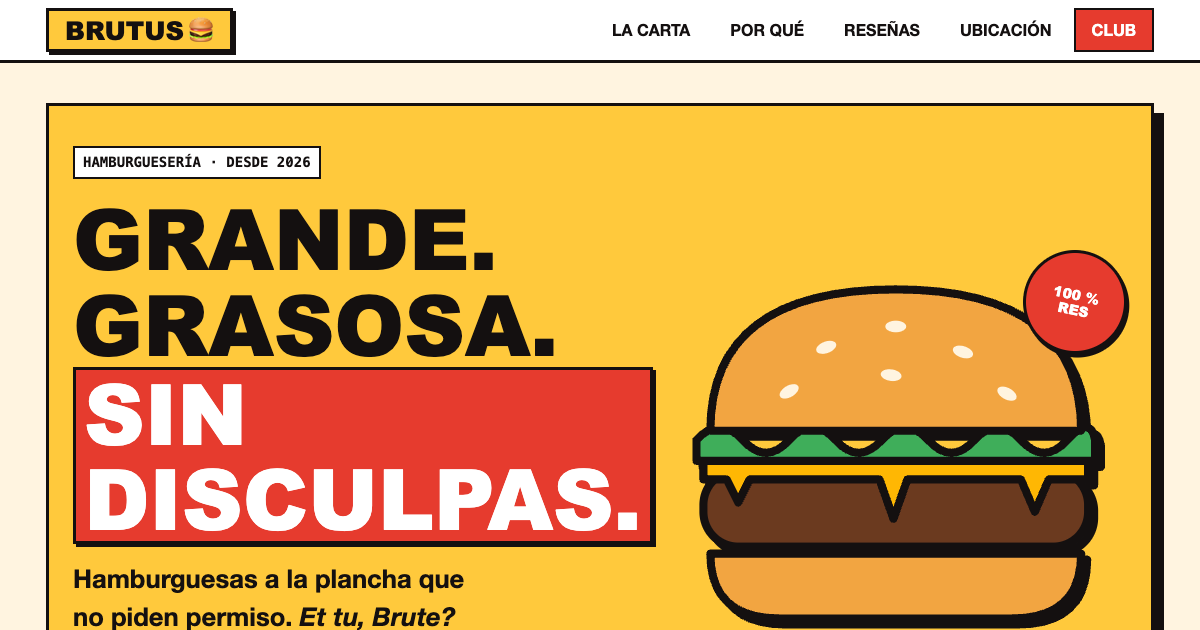
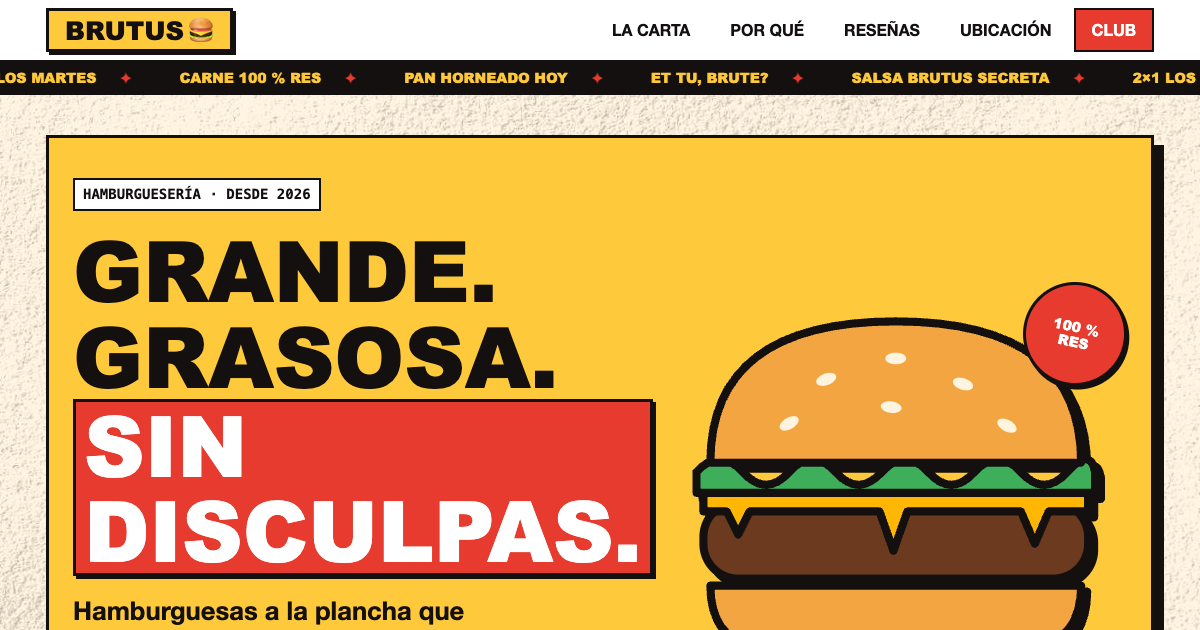
feat: animated UI details, Roman engravings and paper texture
- Ticker bar, button glare + icon wiggle, menu cards that lift/press, animated consent checkbox (adapted from Uiverse.io by 0xnihilism, MIT)
- 'La leyenda' section with John Leech engravings from The Comic History of Rome (public domain, via PDIA)
- Paper grain background derived from a Texture Labs texture; system fonts only
- Re-scroll to #anchor after content loads

diff --git a/css/styles.css b/css/styles.css
@@ -10,7 +10,8 @@ body {
   font-size: var(--fs-md);
   line-height: 1.5;
   color: var(--ink);
-  background: var(--cream);
+  /* Grano de papel: derivado de una textura de Texture Labs (ver README). */
+  background: var(--cream) url("../assets/paper-grain.jpg") center / cover fixed;
 }
 h1, h2, h3 { font-family: var(--font-display); line-height: 1.02; font-weight: var(--fw-black); margin: 0 0 var(--space-3); text-transform: uppercase; }
 h1 { font-size: var(--fs-hero); }
@@ -33,9 +34,18 @@ a { color: inherit; }
   min-height: var(--touch); min-width: var(--touch); padding: 0 var(--space-4);
   font: inherit; font-weight: var(--fw-black); text-transform: uppercase; text-decoration: none;
   color: var(--ink); background: var(--mustard);
+  gap: var(--space-2);
   border: var(--border); box-shadow: var(--shadow); cursor: pointer;
+  position: relative; overflow: hidden; isolation: isolate;
   transition: transform var(--speed), box-shadow var(--speed);
 }
+/* Brillo y giro del icono: adaptados de Uiverse.io (0xnihilism, licencia MIT). */
+.btn::before { content: ""; position: absolute; inset: 0; z-index: -1; translate: -110% 0; background: linear-gradient(100deg, transparent 20%, var(--glare) 50%, transparent 80%); }
+.btn:hover::before { animation: glare var(--glare-speed) var(--ease-out) infinite; }
+@keyframes glare { to { translate: 110% 0; } }
+.btn-icon { display: inline-block; transition: transform var(--speed-slow) var(--ease-bounce); }
+.btn:hover .btn-icon { transform: rotate(var(--icon-wiggle)) scale(var(--icon-scale)); }
+.btn:active .btn-icon { transform: rotate(calc(-1 * var(--icon-wiggle))) scale(1); }
 .btn:hover { transform: translate(calc(-1 * var(--lift)), calc(-1 * var(--lift))); box-shadow: calc(var(--offset) + var(--lift)) calc(var(--offset) + var(--lift)) 0 var(--ink); }
 .btn:active { transform: translate(var(--offset), var(--offset)); box-shadow: 0 0 0 var(--ink); }
 .btn:disabled { background: var(--muted); color: var(--white); cursor: not-allowed; }
@@ -96,9 +106,16 @@ a { color: inherit; }
 .chip-btn { min-height: var(--touch); padding: 0 var(--space-3); font: inherit; font-weight: var(--fw-bold); text-transform: uppercase; color: var(--ink); background: var(--white); border: var(--border); box-shadow: var(--shadow-sm); cursor: pointer; transition: transform var(--speed), box-shadow var(--speed); }
 .chip-btn:hover { transform: translate(calc(-1 * var(--lift)), calc(-1 * var(--lift))); }
 .chip-btn[aria-pressed="true"] { background: var(--ink); color: var(--white); }
+.chip-btn { display: inline-flex; align-items: center; gap: var(--space-2); }
+.chip-icon { display: inline-block; transition: transform var(--speed-slow) var(--ease-bounce); }
+.chip-btn:hover .chip-icon, .chip-btn[aria-pressed="true"] .chip-icon { transform: rotate(var(--icon-wiggle)) scale(var(--icon-scale)); }
 
 /* Carta */
-.menu-item { position: relative; }
+.menu-item { position: relative; transition: transform var(--speed), box-shadow var(--speed); }
+/* Elevar al hover / hundir al pulsar: adaptado de Uiverse.io (0xnihilism, MIT). */
+.menu-item:hover { transform: translate(calc(-1 * var(--lift)), calc(-1 * var(--lift))); box-shadow: calc(var(--offset) + var(--lift)) calc(var(--offset) + var(--lift)) 0 var(--ink); }
+.menu-item:active { transform: translate(var(--press), var(--press)); box-shadow: 0 0 0 var(--ink); }
+.menu-item.is-favorite:hover { box-shadow: var(--shadow-lg); }
 .menu-item.is-favorite { background: var(--mustard); box-shadow: var(--shadow-lg); }
 .menu-head { display: flex; flex-direction: column; align-items: flex-start; gap: var(--space-2); margin-bottom: var(--space-3); }
 .menu-head h3 { margin: 0; overflow-wrap: break-word; hyphens: auto; }
@@ -156,8 +173,16 @@ a { color: inherit; }
 .cta-form input[type="email"] { min-height: var(--touch); padding: 0 var(--space-3); font: inherit; color: var(--ink); background: var(--white); border: var(--border); }
 .cta-form input[aria-invalid="true"] { border-color: var(--ketchup); background: var(--danger-bg); }
 .consent { display: flex; align-items: flex-start; gap: var(--space-2); text-transform: none !important; font-weight: var(--fw-bold) !important; font-size: var(--fs-md) !important; cursor: pointer; }
-.consent input { flex: none; width: var(--check); height: var(--check); margin: 0; accent-color: var(--ketchup); }
-.consent input[aria-invalid="true"] { outline: var(--bw) solid var(--ketchup); outline-offset: var(--focus-offset); }
+.consent { position: relative; }
+.consent input { position: absolute; width: var(--check); height: var(--check); margin: 0; opacity: 0; cursor: pointer; }
+.check { display: grid; place-items: center; flex: none; width: var(--check); height: var(--check); background: var(--white); border: var(--border); box-shadow: var(--shadow-sm); transition: transform var(--speed), box-shadow var(--speed), background-color var(--speed); }
+.check::after { content: ""; width: 35%; height: 60%; margin-top: -15%; border: solid var(--white); border-width: 0 var(--bw) var(--bw) 0; rotate: 45deg; scale: 0; transition: scale var(--speed-slow) var(--ease-bounce); }
+.consent:hover .check { transform: translate(calc(-1 * var(--lift)), calc(-1 * var(--lift))); }
+.cta-box .check { border-color: var(--white); box-shadow: var(--bw) var(--bw) 0 var(--mustard); }
+.consent input:checked + .check { background: var(--ketchup); transform: translate(var(--lift), var(--lift)); box-shadow: 0 0 0 var(--ink); }
+.consent input:checked + .check::after { scale: 1; }
+.consent input:focus-visible + .check { outline: var(--bw) solid var(--mustard); outline-offset: var(--focus-offset); }
+.consent input[aria-invalid="true"] + .check { outline: var(--bw) solid var(--ketchup); outline-offset: var(--focus-offset); }
 .hp { position: absolute; left: calc(-100 * var(--space-6)); } /* honeypot anti-bots */
 .form-msg { min-height: var(--space-4); margin: 0; font-weight: var(--fw-bold); background: var(--white); color: var(--ink); padding: var(--space-1) var(--space-2); display: inline-block; }
 .form-msg:empty { display: none; }
@@ -167,9 +192,29 @@ a { color: inherit; }
 .privacy summary { cursor: pointer; font-weight: var(--fw-bold); text-decoration: underline; }
 .privacy p { margin-top: var(--space-2); font-size: var(--fs-sm); }
 
+/* ───────── Cinta de anuncios ───────── */
+.ticker { overflow: hidden; background: var(--ink); color: var(--mustard); border-top: var(--border); }
+.ticker-track { display: flex; width: max-content; animation: ticker var(--ticker-speed) linear infinite; }
+.ticker:hover .ticker-track { animation-play-state: paused; }
+.ticker span { padding: var(--space-1) var(--space-4); font-family: var(--font-display); font-size: var(--fs-sm); text-transform: uppercase; white-space: nowrap; }
+.ticker span::after { content: "✦"; margin-left: var(--space-4); color: var(--ketchup); }
+@keyframes ticker { to { transform: translateX(-50%); } }
+
+/* ───────── La leyenda ───────── */
+.legend { display: grid; grid-template-columns: minmax(0, 1.1fr) minmax(0, 1fr) minmax(0, 0.8fr); align-items: start; gap: var(--space-4); }
+.legend-copy .lead { font-family: var(--font-display); text-transform: uppercase; }
+.engraving { margin: 0; padding: var(--space-3); background: var(--white); border: var(--border); box-shadow: var(--shadow); rotate: var(--tilt-a); transition: rotate var(--speed-slow) var(--ease-bounce), scale var(--speed-slow) var(--ease-bounce), box-shadow var(--speed); }
+.engraving-side { rotate: var(--tilt-b); margin-top: var(--space-6); }
+.engraving:hover { rotate: 0deg; scale: 1.04; box-shadow: var(--shadow-lg); }
+.engraving img { display: block; width: 100%; height: auto; border: var(--bw-thin) solid var(--ink); }
+.engraving-main { background: var(--mustard); }
+.engraving-main img { mix-blend-mode: multiply; filter: grayscale(1) contrast(1.15); }
+.engraving figcaption { margin-top: var(--space-2); font-family: var(--font-mono); font-size: var(--fs-sm); }
+
 /* ───────── Footer ───────── */
 .site-footer { border-top: var(--border); background: var(--mustard); text-align: center; padding: var(--space-4) var(--space-3); }
 .site-footer p { margin: 0 0 var(--space-1); font-family: var(--font-mono); font-size: var(--fs-sm); }
+.site-footer .credits { max-width: 70ch; margin: var(--space-2) auto; }
 
 /* ───────── Skeleton loaders ───────── */
 .skeleton { pointer-events: none; }
@@ -188,6 +233,9 @@ a { color: inherit; }
   .hero-box { grid-template-columns: 1fr; }
   .hero-art { max-width: var(--art-max); margin: 0 auto; width: 100%; }
   .location { grid-template-columns: 1fr; }
+  .legend { grid-template-columns: 1fr 1fr; }
+  .legend-copy { grid-column: 1 / -1; }
+  .engraving-side { margin-top: 0; }
 }
 @media (max-width: 768px) {
   .nav-toggle { display: inline-flex; align-items: center; justify-content: center; padding: 0 var(--space-3); }
@@ -198,6 +246,7 @@ a { color: inherit; }
   section { padding: var(--space-5) var(--space-3); }
 }
 @media (max-width: 480px) {
+  .legend { grid-template-columns: 1fr; }
   .hero-box, .cta-box { padding: var(--space-4) var(--space-3); }
   .btn { width: 100%; }
 }

diff --git a/index.html b/index.html
@@ -42,6 +42,12 @@
       </ul>
     </nav>
     <div class="nav-backdrop" hidden></div>
+    <div class="ticker" aria-hidden="true">
+      <div class="ticker-track">
+        <span>2×1 los martes</span><span>Carne 100 % res</span><span>Pan horneado hoy</span><span>Et tu, Brute?</span><span>Salsa Brutus secreta</span>
+        <span>2×1 los martes</span><span>Carne 100 % res</span><span>Pan horneado hoy</span><span>Et tu, Brute?</span><span>Salsa Brutus secreta</span>
+      </div>
+    </div>
   </header>
 
   <main id="main">
@@ -52,8 +58,8 @@
           <h1>Grande.<br>Grasosa.<br><span class="hl">Sin disculpas.</span></h1>
           <p class="lead">Hamburguesas a la plancha que no piden permiso. <em>Et tu, Brute?</em></p>
           <div class="hero-actions">
-            <a href="#menu" class="btn btn-primary">Ver la carta</a>
-            <a href="#ubicacion" class="btn btn-secondary">Cómo llegar</a>
+            <a href="#menu" class="btn btn-primary"><span class="btn-icon" aria-hidden="true">🍔</span>Ver la carta</a>
+            <a href="#ubicacion" class="btn btn-secondary"><span class="btn-icon" aria-hidden="true">📍</span>Cómo llegar</a>
           </div>
           <p class="status" data-status aria-live="polite"></p>
         </div>
@@ -91,10 +97,10 @@
     <section id="menu" class="reveal" aria-labelledby="menu-title">
       <h2 id="menu-title">La carta</h2>
       <div class="filters" role="group" aria-label="Filtrar la carta">
-        <button type="button" class="chip-btn" data-filter="all" aria-pressed="true">Todo</button>
-        <button type="button" class="chip-btn" data-filter="burgers" aria-pressed="false">Hamburguesas</button>
-        <button type="button" class="chip-btn" data-filter="sides" aria-pressed="false">Acompañantes</button>
-        <button type="button" class="chip-btn" data-filter="drinks" aria-pressed="false">Bebidas</button>
+        <button type="button" class="chip-btn" data-filter="all" aria-pressed="true"><span class="chip-icon" aria-hidden="true">✦</span>Todo</button>
+        <button type="button" class="chip-btn" data-filter="burgers" aria-pressed="false"><span class="chip-icon" aria-hidden="true">🍔</span>Hamburguesas</button>
+        <button type="button" class="chip-btn" data-filter="sides" aria-pressed="false"><span class="chip-icon" aria-hidden="true">🍟</span>Acompañantes</button>
+        <button type="button" class="chip-btn" data-filter="drinks" aria-pressed="false"><span class="chip-icon" aria-hidden="true">🥤</span>Bebidas</button>
       </div>
       <p class="sr-only" data-filter-status aria-live="polite"></p>
       <div class="card-grid" data-list="menu" aria-busy="true"></div>
@@ -103,6 +109,25 @@
     <section id="por-que" class="reveal" aria-labelledby="why-title">
       <h2 id="why-title">Por qué Brutus</h2>
       <div class="card-grid" data-list="reasons" aria-busy="true"></div>
+    </section>
+
+    <section id="leyenda" class="reveal" aria-labelledby="legend-title">
+      <h2 id="legend-title">La leyenda</h2>
+      <div class="legend">
+        <div class="legend-copy">
+          <p class="lead">Bruto traicionó a César en el 44 a. C.</p>
+          <p>Nosotros juramos no traicionarte jamás con una hamburguesa congelada. Cada medalla se forma a mano, se sella a la plancha y llega a tu mesa como llegaban los gladiadores a la arena: <strong>sin miedo y sin disculpas</strong>.</p>
+          <a href="#club" class="btn btn-primary"><span class="btn-icon" aria-hidden="true">⚔</span>Únete al Club</a>
+        </div>
+        <figure class="engraving engraving-main">
+          <img src="assets/leech-gladiator.jpg" width="640" height="777" loading="lazy" decoding="async" alt="Caricatura de un gladiador romano con guantes de boxeo conversando con su patrocinador, que fuma un cigarro.">
+          <figcaption>«Early Roman Gladiator and his Patron». John Leech, <cite>The Comic History of Rome</cite>, c. 1850.</figcaption>
+        </figure>
+        <figure class="engraving engraving-side">
+          <img src="assets/leech-tarquinius.jpg" width="640" height="646" loading="lazy" decoding="async" alt="Caricatura coloreada de una pelea en el Senado romano: un rey con cetro observa mientras varios senadores caen por las escaleras.">
+          <figcaption>«Tarquinius Superbus Makes Himself King». John Leech, c. 1850.</figcaption>
+        </figure>
+      </div>
     </section>
 
     <section id="resenas" class="reveal" aria-labelledby="reviews-title">
@@ -147,9 +172,10 @@
           <input class="hp" type="text" name="website" tabindex="-1" autocomplete="off" aria-hidden="true">
           <label class="consent">
             <input type="checkbox" name="consent" required aria-describedby="privacy-note">
+            <span class="check" aria-hidden="true"></span>
             <span>Acepto recibir promociones por correo y he leído el aviso de privacidad.</span>
           </label>
-          <button type="submit" class="btn btn-primary">Unirme al club</button>
+          <button type="submit" class="btn btn-primary"><span class="btn-icon" aria-hidden="true">🍔</span>Unirme al club</button>
           <p class="form-msg" id="form-msg" role="status" aria-live="polite"></p>
         </form>
         <details class="privacy" id="privacy-note">
@@ -163,6 +189,7 @@
 
   <footer class="site-footer">
     <p>&copy; 2026 Brutus Burgers · <strong>Proyecto de portfolio — negocio ficticio.</strong></p>
+    <p class="credits">Ilustraciones: John Leech, <cite>The Comic History of Rome</cite> (c. 1850), dominio público vía <a href="https://pdimagearchive.org/">Public Domain Image Archive</a>. Textura de papel derivada de <a href="https://texturelabs.org/">Texture Labs</a>. Animaciones adaptadas de <a href="https://uiverse.io/">Uiverse</a> (MIT).</p>
     <p><a href="https://github.com/zSamir015/brutus">Código en GitHub</a></p>
   </footer>
 </body>

diff --git a/css/tokens.css b/css/tokens.css
@@ -41,7 +41,7 @@
   --max-width: 1140px;
   --form-width: 520px;
   --card-min: 250px;
-  --header-h: 4.5rem;
+  --header-h: 7rem; /* navbar + cinta */
   --focus-offset: 3px;
 
   /* Tipografía (sin fuentes externas: la CSP solo permite 'self') */
@@ -74,6 +74,14 @@
   --speed-shimmer: 1.2s;
   --stagger: 110ms;
   --drop: -140px;
+  --ticker-speed: 32s;
+  --glare-speed: 1.6s;
+  --glare: rgb(255 255 255 / 0.55);
+  --icon-wiggle: -12deg;
+  --icon-scale: 1.25;
+  --tilt-a: -1.5deg;
+  --tilt-b: 1.2deg;
+  --press: 4px;
   --ease-out: cubic-bezier(0.22, 1, 0.36, 1);
   --ease-bounce: cubic-bezier(0.34, 1.56, 0.64, 1);
 }

diff --git a/js/app.js b/js/app.js
@@ -168,6 +168,8 @@ fetch('data/content.json', { credentials: 'omit' })
     $('[data-address]').textContent = data.location.address;
     renderHours(data.hours, data.location.timezone);
     setInterval(() => renderHours(data.hours, data.location.timezone), 60_000);
+    // El contenido cargado desplaza las secciones: si se llegó con #ancla, se vuelve a ella.
+    if (location.hash) document.getElementById(location.hash.slice(1))?.scrollIntoView();
   })
   .catch(() => {
     containers.forEach(showError);
